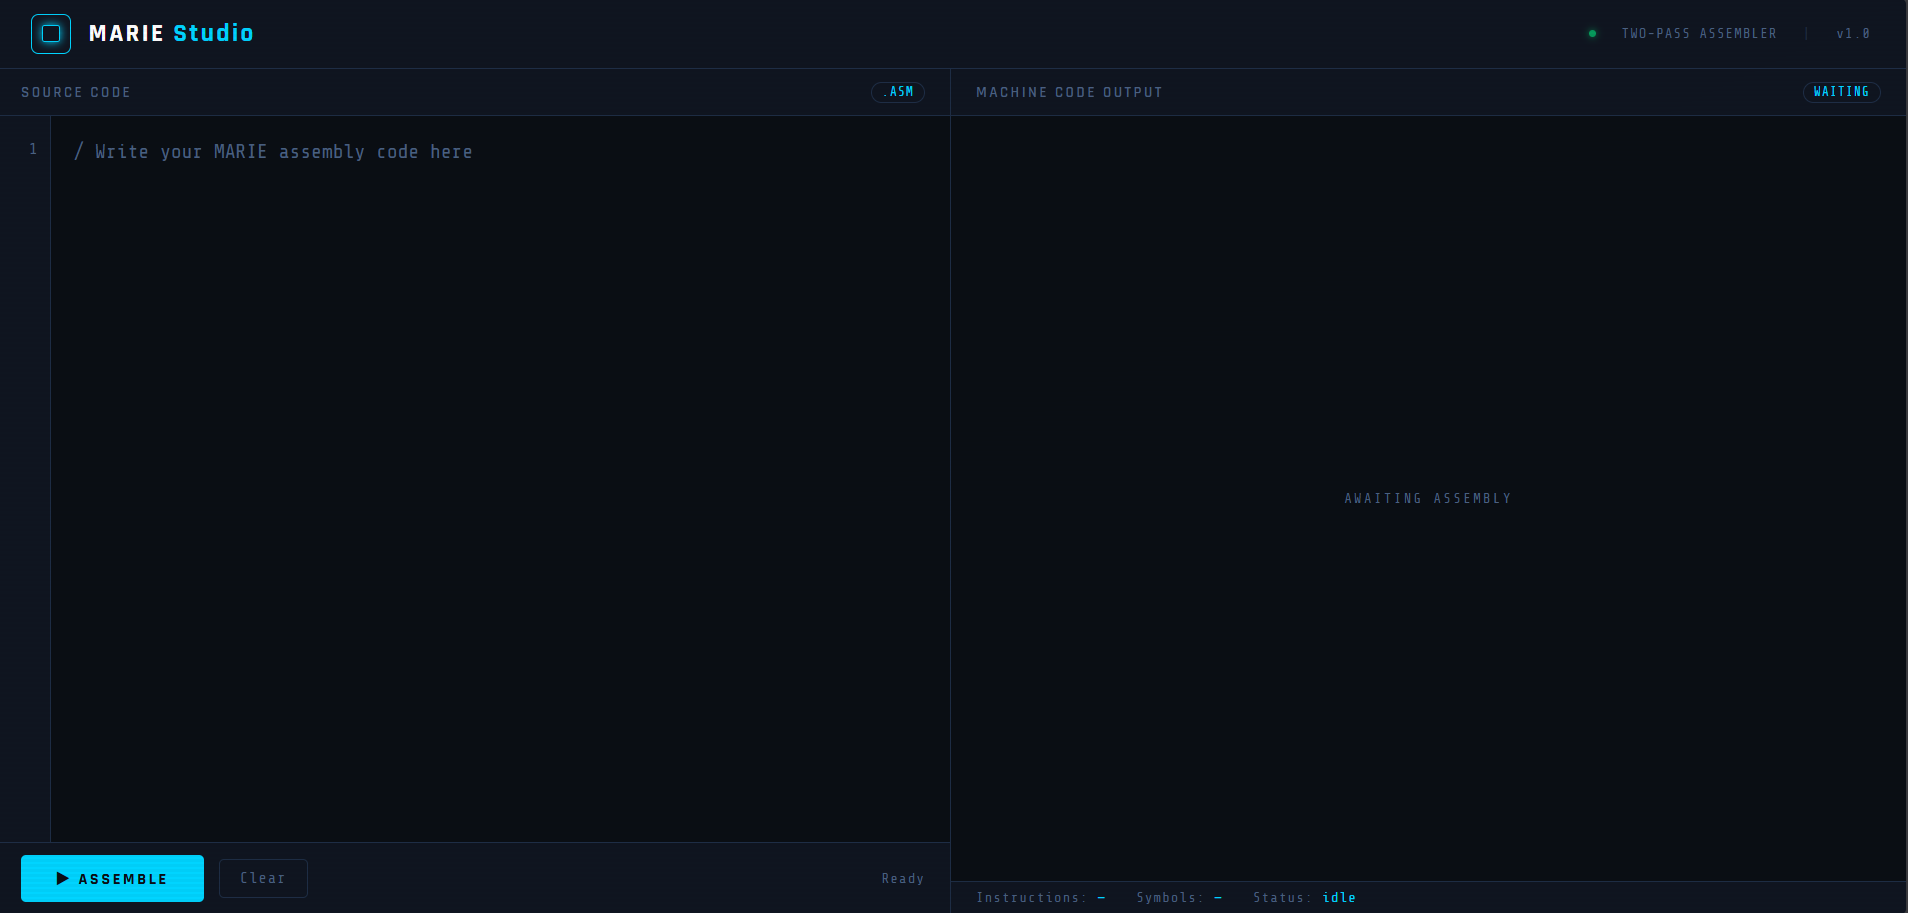
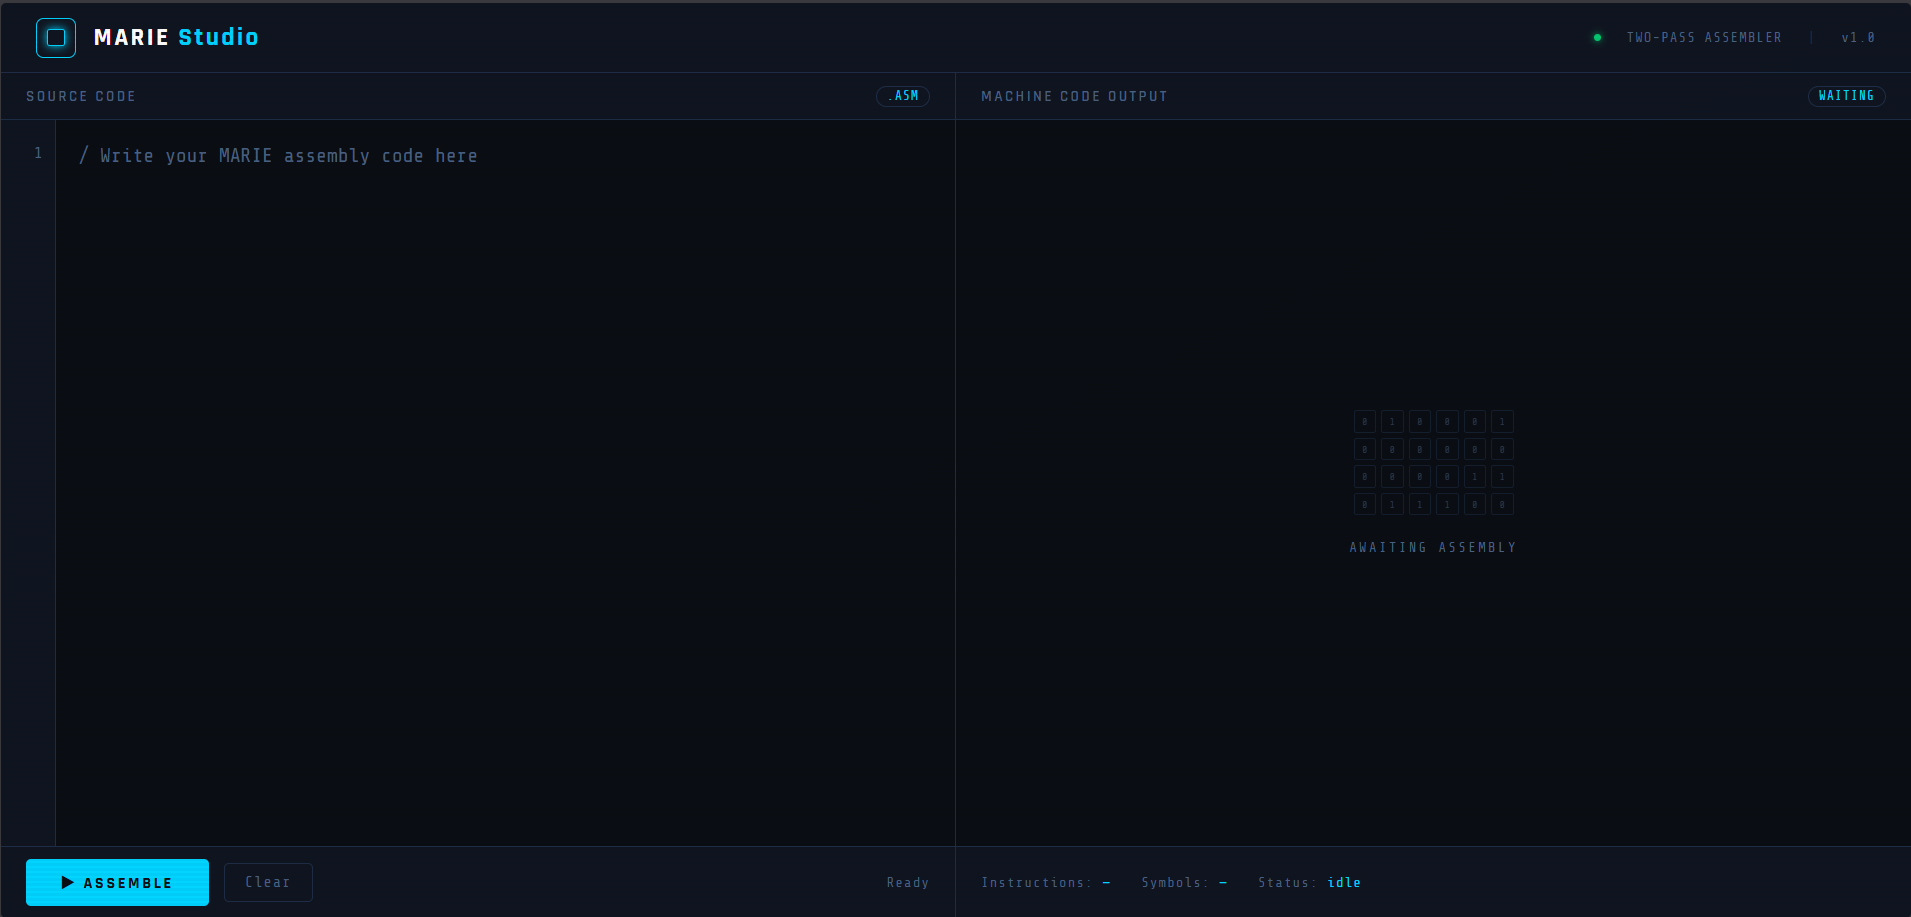
update readme images

diff --git a/templates/index.html b/templates/index.html
@@ -425,11 +425,14 @@
       border-top: 1px solid var(--border);
       padding: 7px 20px;
       display: flex;
+      justify-content: left;
+      align-items: center;
       gap: 24px;
       font-size: 11px;
       color: var(--muted);
       letter-spacing: 1px;
       flex-shrink: 0;
+      height: 58px;
     }
 
     .stat span { color: var(--accent); }